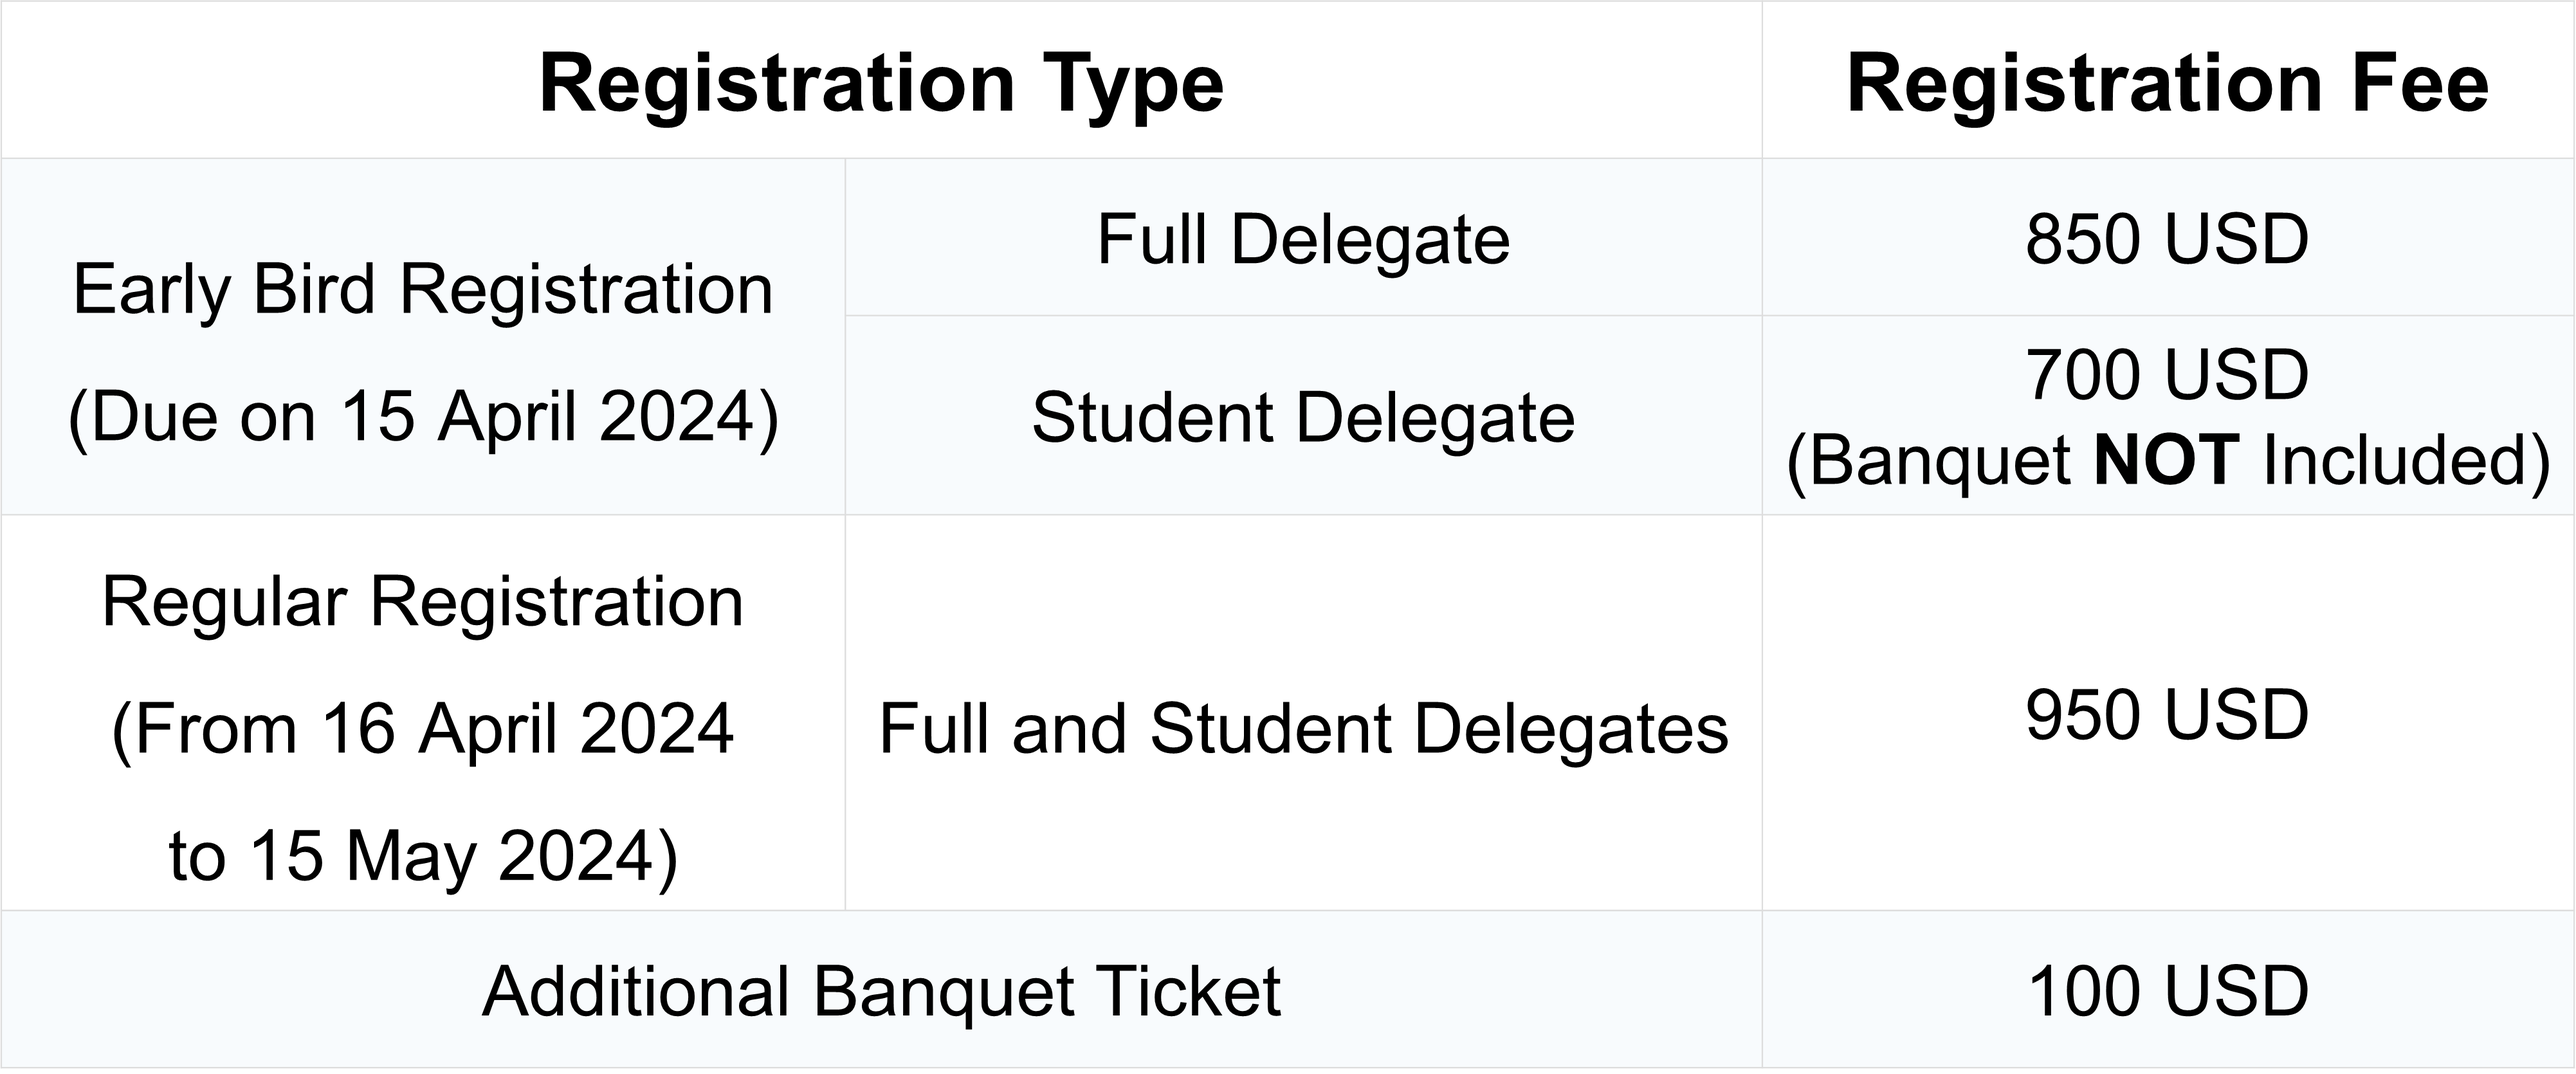
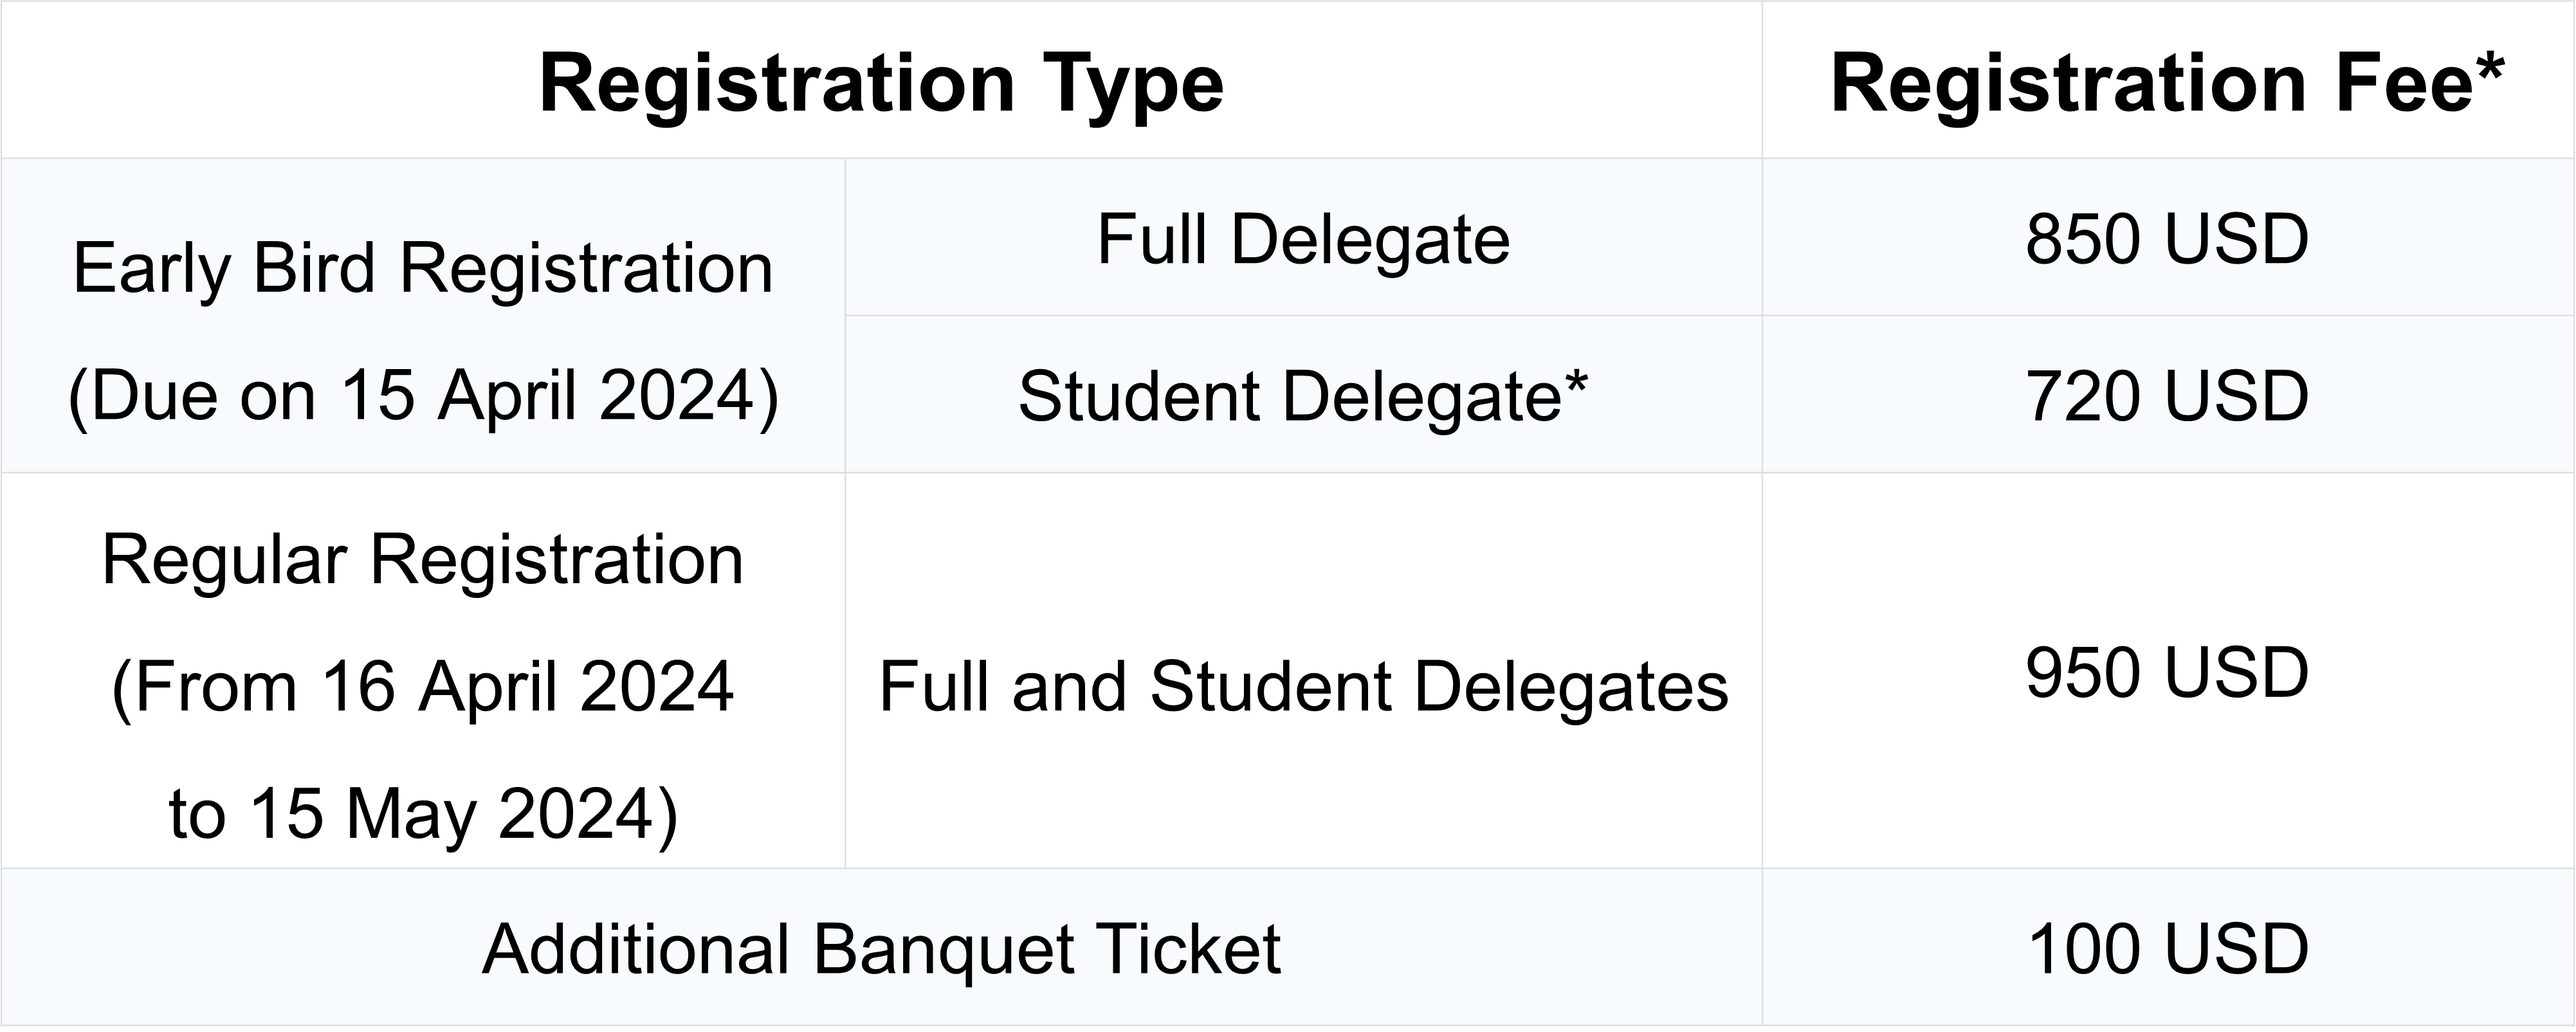
zzz

diff --git a/registration/index.html b/registration/index.html
@@ -135,12 +135,15 @@
         <div class="left-column">
             *<br>
             *<br><br>
+            *<br><br>
             *<br>
+            *<br>        
             *<br>        
                     
         </div>
         <div class="right-column">
            The registration fee <strong>DOES NOT</strong> cover the traveling fee and hotel fee.<br>
+           Student delegates include only enrolled undergraduates, masters, and PhDs, who are required to provide student ID cards for registration. <br>
            One registration per presentation. If multiple papers are accepted for presentation, each paper requires a separate registration fee. <br>
            Multiple submissions of the same author will be accepted; however, one registration is limited to one submission. <br>
            This is an international conference, we provide only INVOICE, not the FAPIAO. <br>
